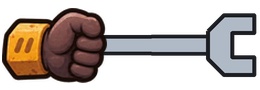
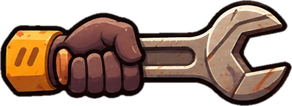
Jumper cables and wrench sprites
Replace the stand-ins with art cut from assets/raw/weapons-3.webp and fit
the grips, the cables' muzzle and the size of the thrown wrench to it.

diff --git a/src/render.js b/src/render.js
@@ -60,8 +60,8 @@ const WEAPON_ART = {
   rifle: { grip: [0.28, 0.585] },
   shotgun: { grip: [0.245, 0.63] },
   chainsaw: { grip: [0.22, 0.637] },
-  cables: { grip: [0.288, 0.5] },
-  wrench: { grip: [0.288, 0.5] },
+  cables: { grip: [0.343, 0.41] },
+  wrench: { grip: [0.34, 0.52] },
 };
 for (const [id, art] of Object.entries(WEAPON_ART)) art.img = loadImage(`assets/weapons/${id}.png`);
 
@@ -184,7 +184,7 @@ const SHOT_ART = {
   revolver: { file: 'bullet', h: 7, grip: [0.8, 0.5] },
   rifle: { file: 'tracer', h: 3.6, grip: [0.96, 0.5] },
   shotgun: { file: 'pellet', h: 6, grip: [0.78, 0.5] },
-  wrench: { file: 'wrench', h: 14 }, // the thrown wrench, without the fist; it spins as it flies
+  wrench: { file: 'wrench', h: 17 }, // the thrown wrench, without the fist; it spins as it flies
   flash: { file: 'flash', h: 18, grip: [0.04, 0.5] },
 };
 for (const art of Object.values(SHOT_ART)) art.img = loadImage(`assets/shots/${art.file}.png`);

diff --git a/src/data.js b/src/data.js
@@ -114,7 +114,7 @@ export const WEAPONS = {
   cables: {
     name: 'Jumper Cables', kind: 'ranged', cost: 30,
     dmg: 9, cd: 0.9, range: 210, move: 'zap', chain: 4, jump: 110, falloff: 0.8, knock: 0,
-    muzzle: [28, 0],
+    muzzle: [29, 0],
     blurb: 'Zaps a robot, and the charge jumps on to four more.',
   },
   wrench: {
